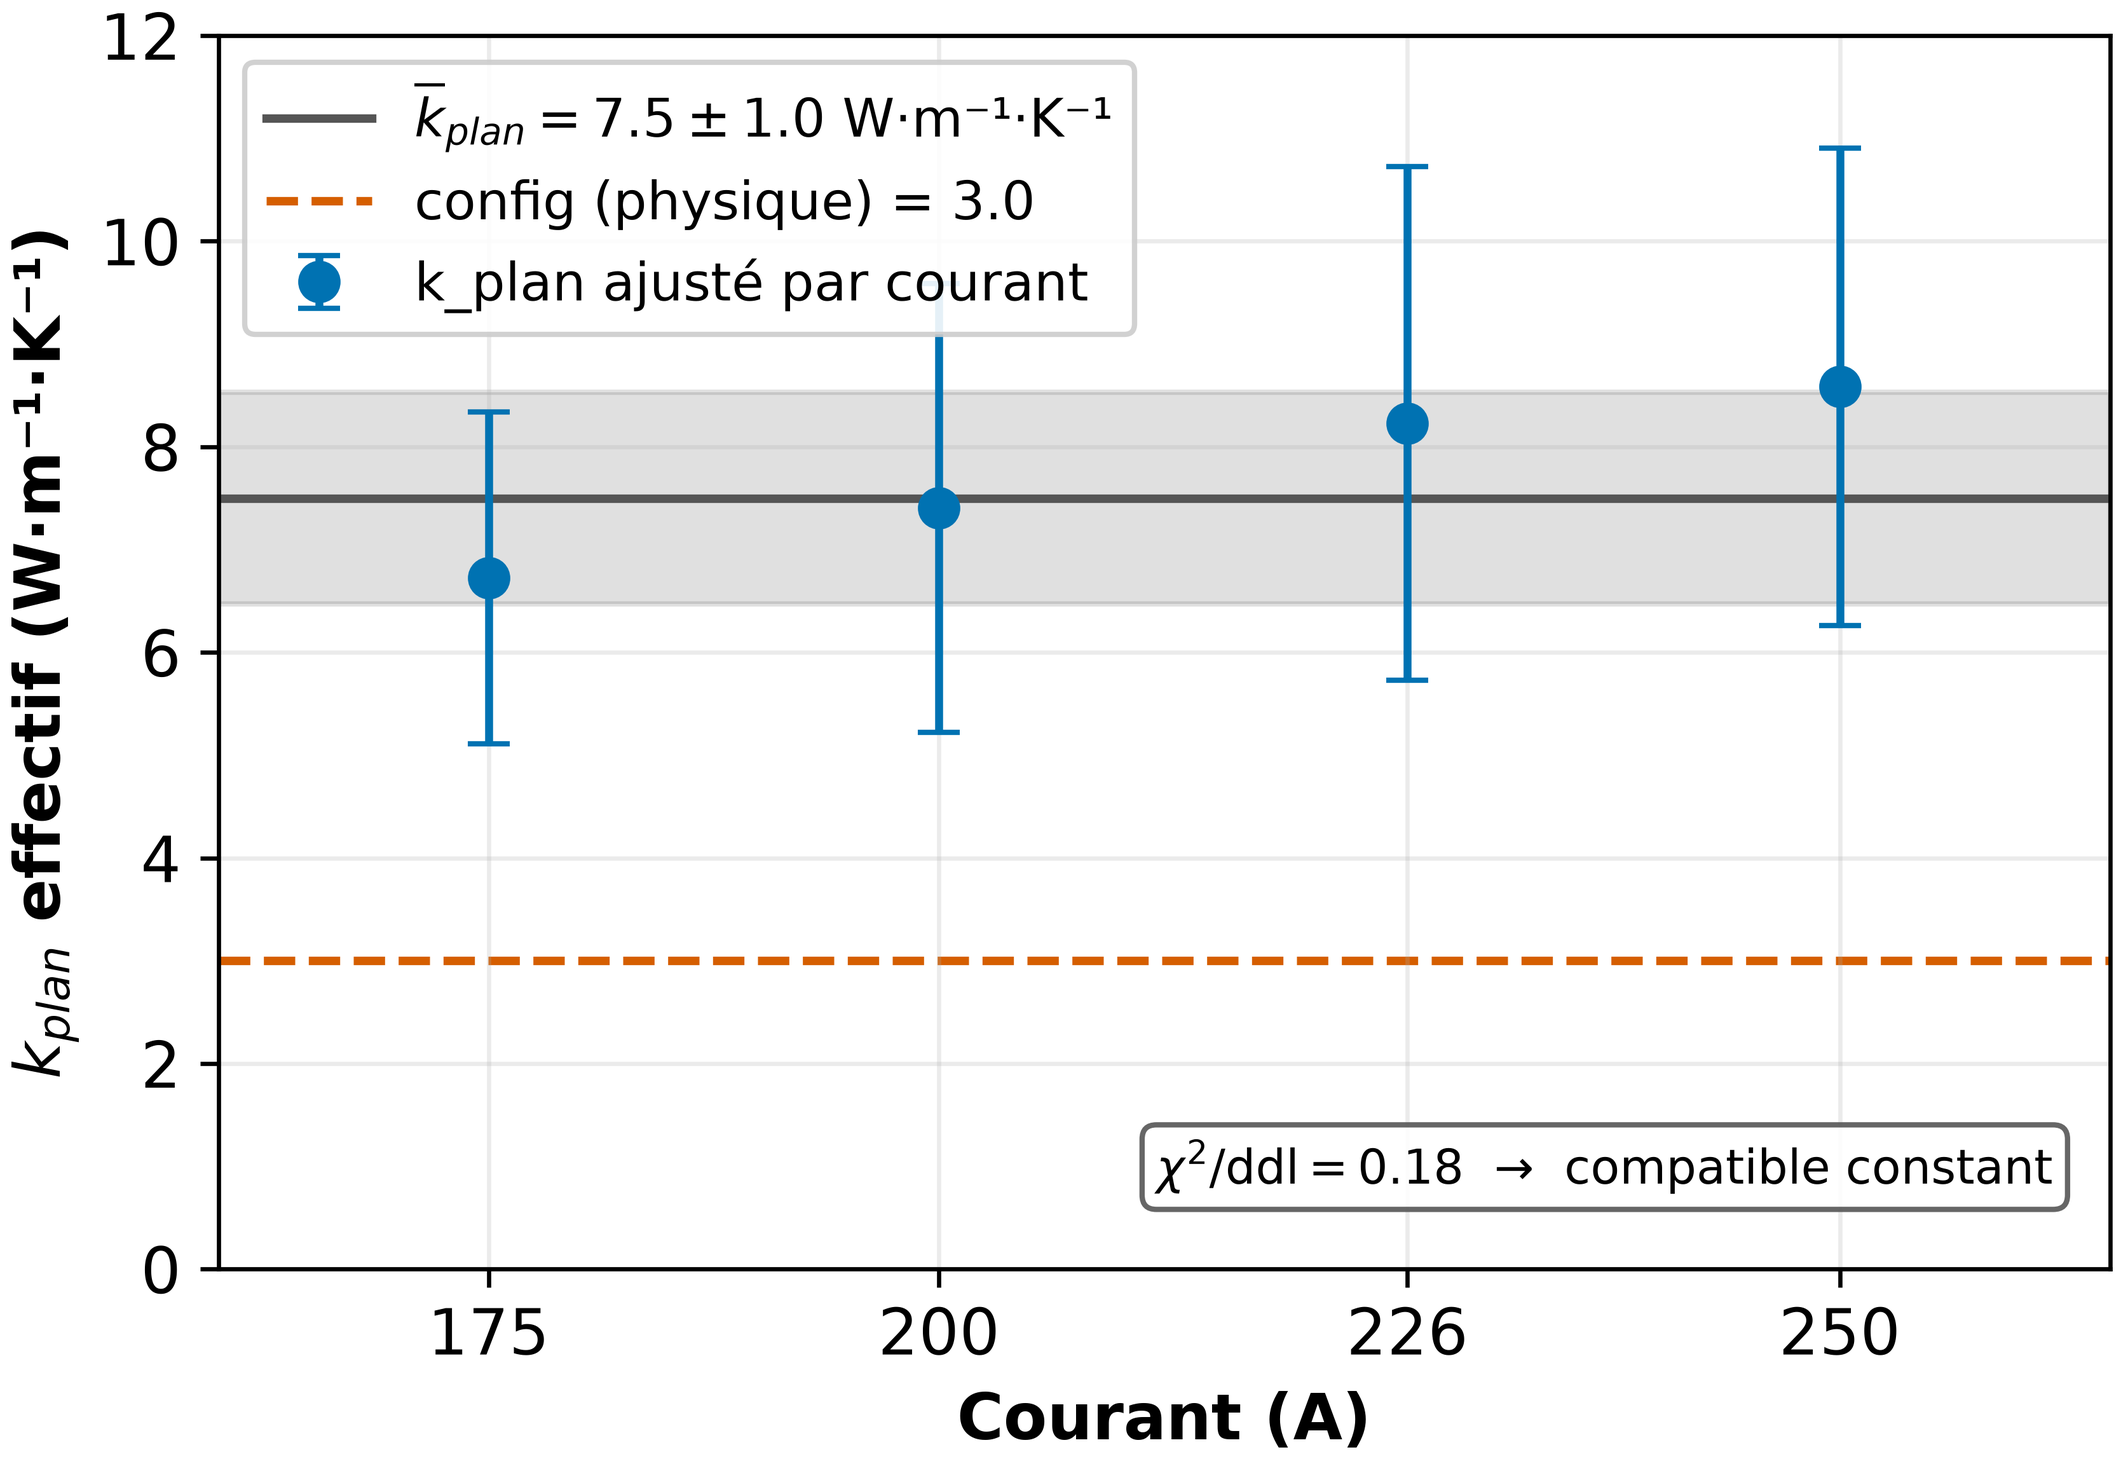
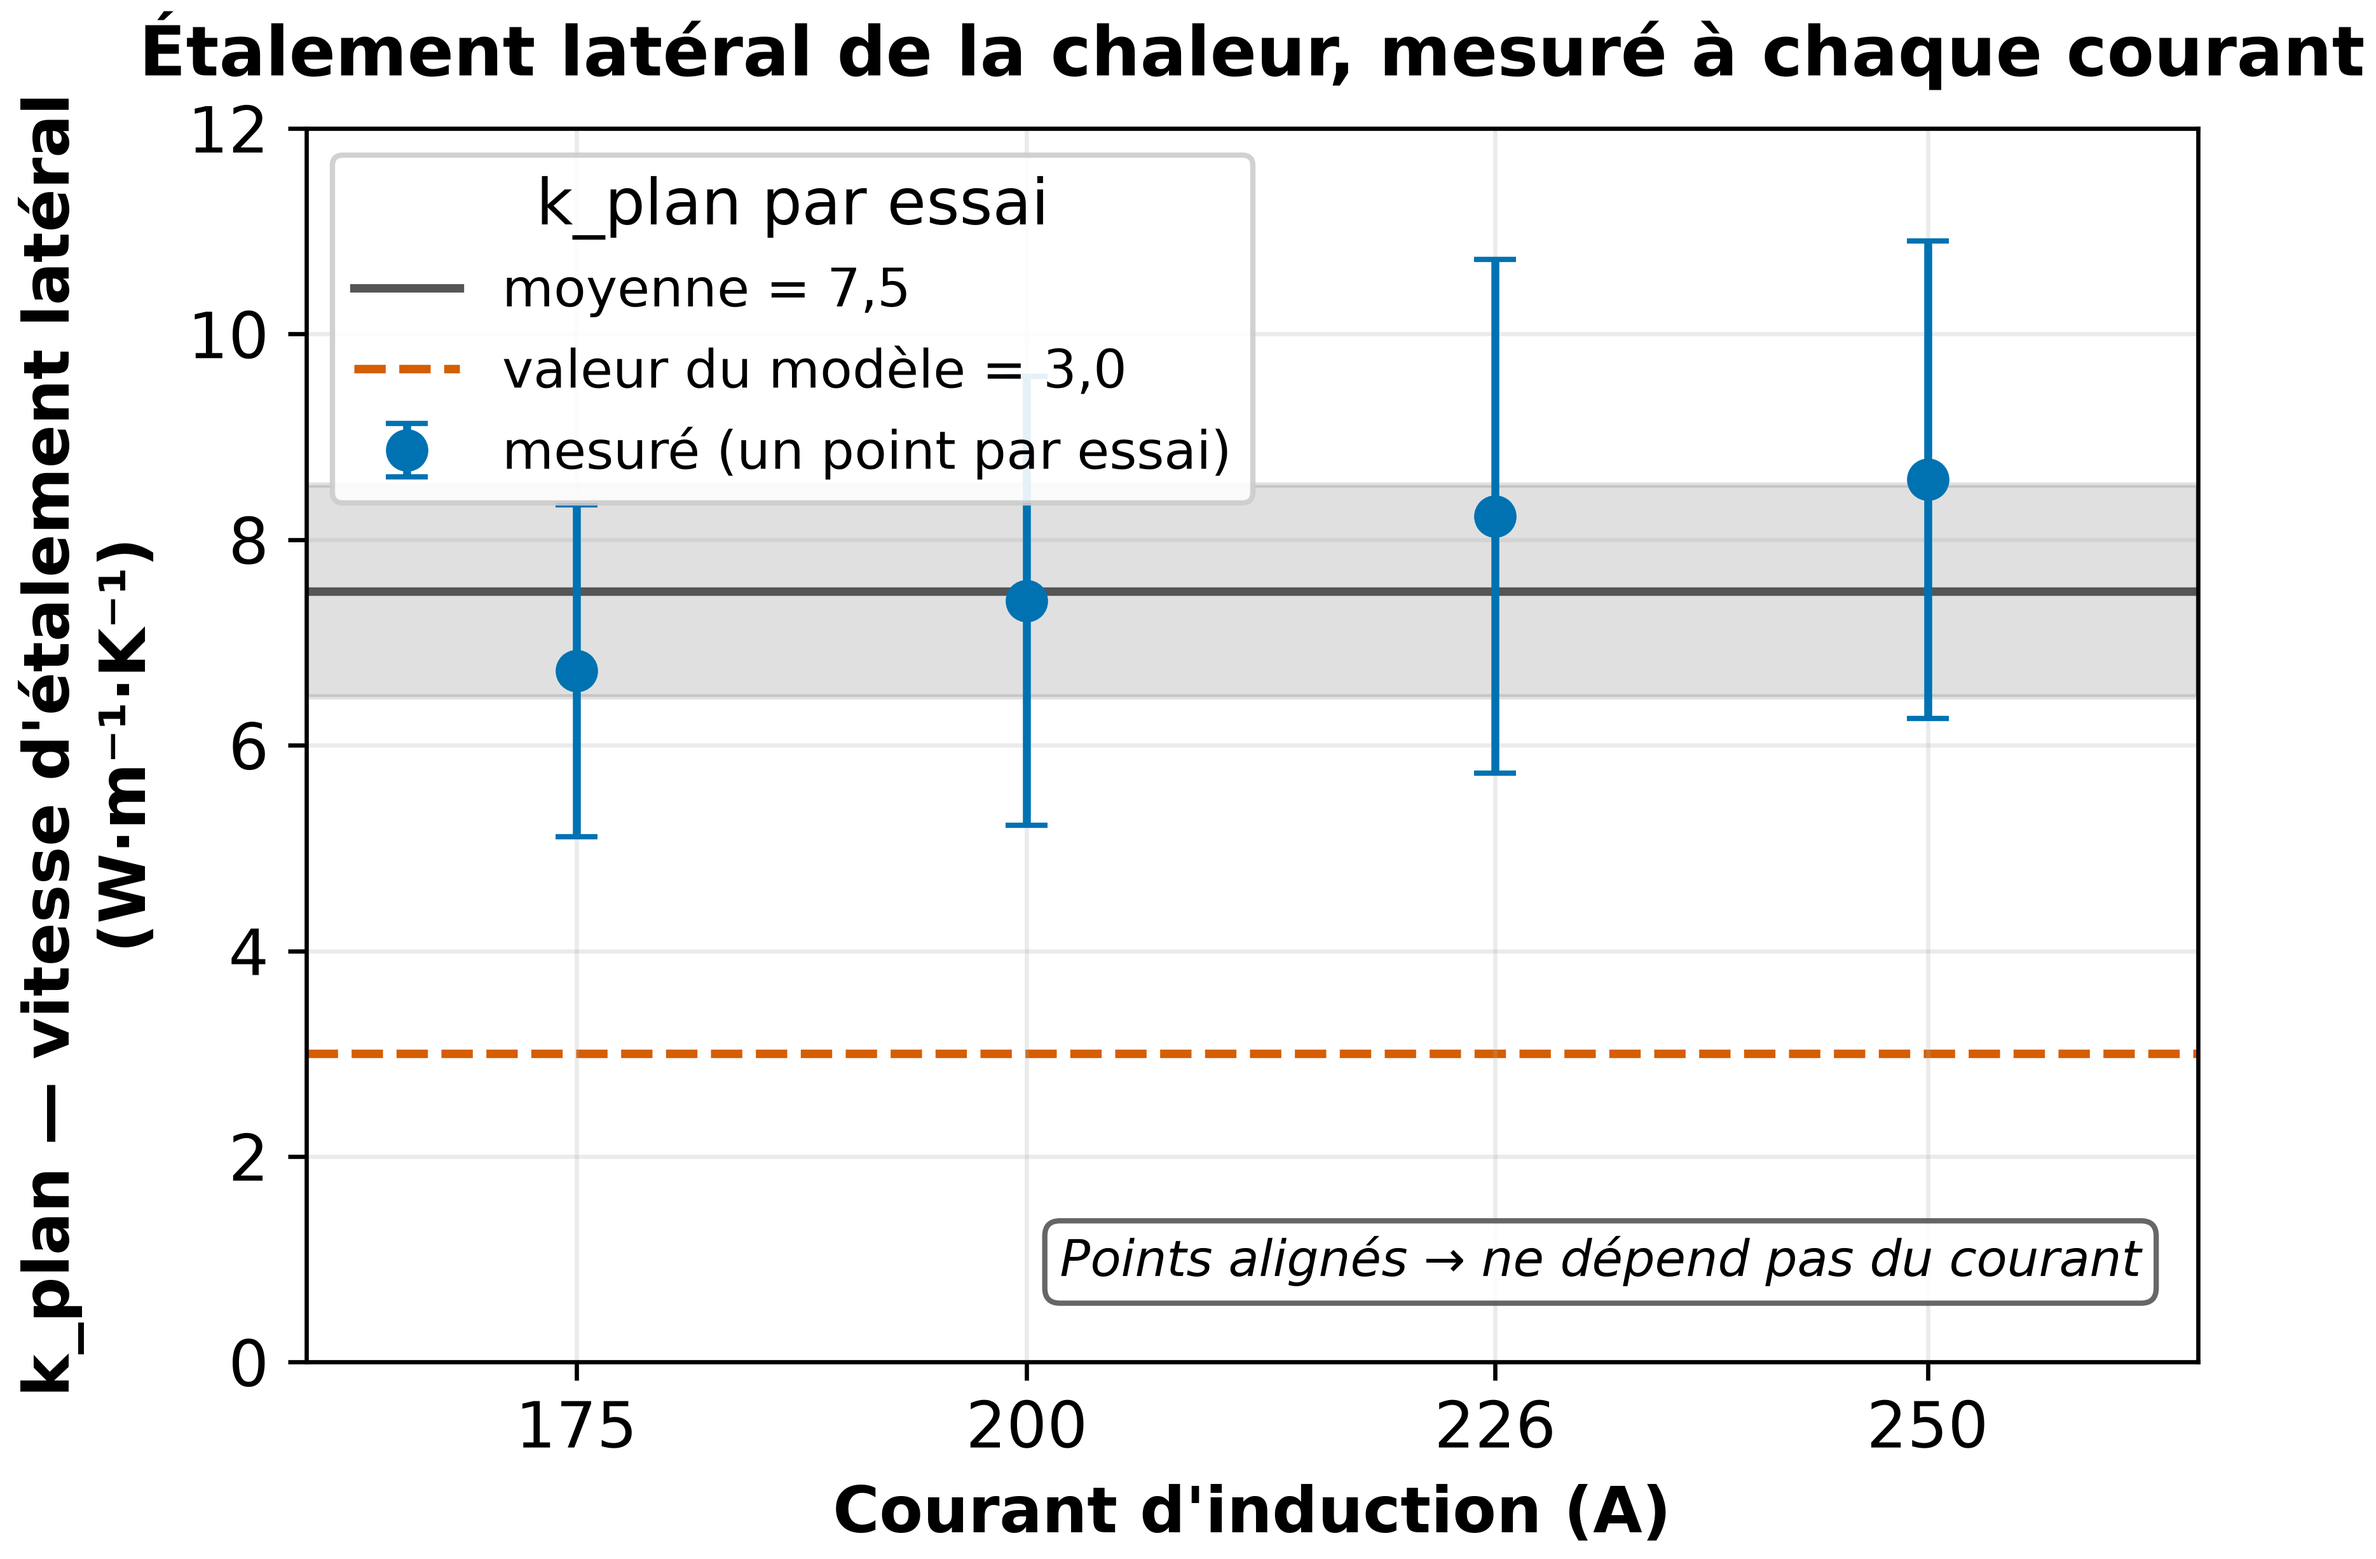
oui

diff --git a/scripts/gen_figure_kplan_courant.py b/scripts/gen_figure_kplan_courant.py
@@ -48,30 +48,32 @@ def main():
     # bande = moyenne pondérée ± IC
     ax.axhspan(k_moy - sig_moy, k_moy + sig_moy, color=GRIS_MODELE, alpha=0.18, zorder=0)
     ax.axhline(k_moy, color=GRIS_MODELE, lw=1.6, zorder=1,
-               label=fr"$\overline{{k}}_{{plan}} = {k_moy:.1f} \pm {sig_moy:.1f}$ W·m⁻¹·K⁻¹")
+               label=f"moyenne = {k_moy:.1f}".replace(".", ","))
 
     # valeur physique de config
     ax.axhline(K_CONFIG, color=OKABE_ITO["vermillon"], lw=1.6, ls="--", zorder=1,
-               label=f"config (physique) = {K_CONFIG:.1f}")
+               label=f"valeur du modèle = {K_CONFIG:.0f},0")
 
     # points par courant
     ax.errorbar(I, k, yerr=s, fmt="o", ms=7, color=OKABE_ITO["bleu"],
                 ecolor=OKABE_ITO["bleu"], elinewidth=1.5, capsize=4, zorder=3,
-                label="k_plan ajusté par courant")
+                label="mesuré (un point par essai)")
 
-    ax.set_xlabel("Courant (A)")
-    ax.set_ylabel(r"$k_{plan}$ effectif (W·m⁻¹·K⁻¹)")
+    ax.set_title("Étalement latéral de la chaleur, mesuré à chaque courant",
+                 fontsize=13, fontweight="bold", pad=10)
+    ax.set_xlabel("Courant d'induction (A)")
+    ax.set_ylabel("k_plan — vitesse d'étalement latéral\n(W·m⁻¹·K⁻¹)")
     ax.set_xlim(160, 265)
     ax.set_ylim(0, 12)
     ax.set_xticks([175, 200, 226, 250])
 
-    # verdict de constance, dans une zone vide (bas droite)
-    ax.text(0.97, 0.06,
-            fr"$\chi^2/\mathrm{{ddl}} = {chi2/ddl:.2f}$  →  compatible constant",
-            transform=ax.transAxes, ha="right", va="bottom", fontsize=9,
+    # message en clair, dans une zone vide (bas droite)
+    ax.text(0.97, 0.06, "Points alignés → ne dépend pas du courant",
+            transform=ax.transAxes, ha="right", va="bottom", fontsize=9.5,
+            style="italic",
             bbox=dict(boxstyle="round,pad=0.3", fc="white", ec=GRIS_MODELE, alpha=0.9))
 
-    ax.legend(loc="upper left", framealpha=0.9)
+    ax.legend(loc="upper left", framealpha=0.9, title="k_plan par essai")
     ax.grid(True, alpha=0.25)
 
     out_dir = R / "docs" / "modele" / "figures"
